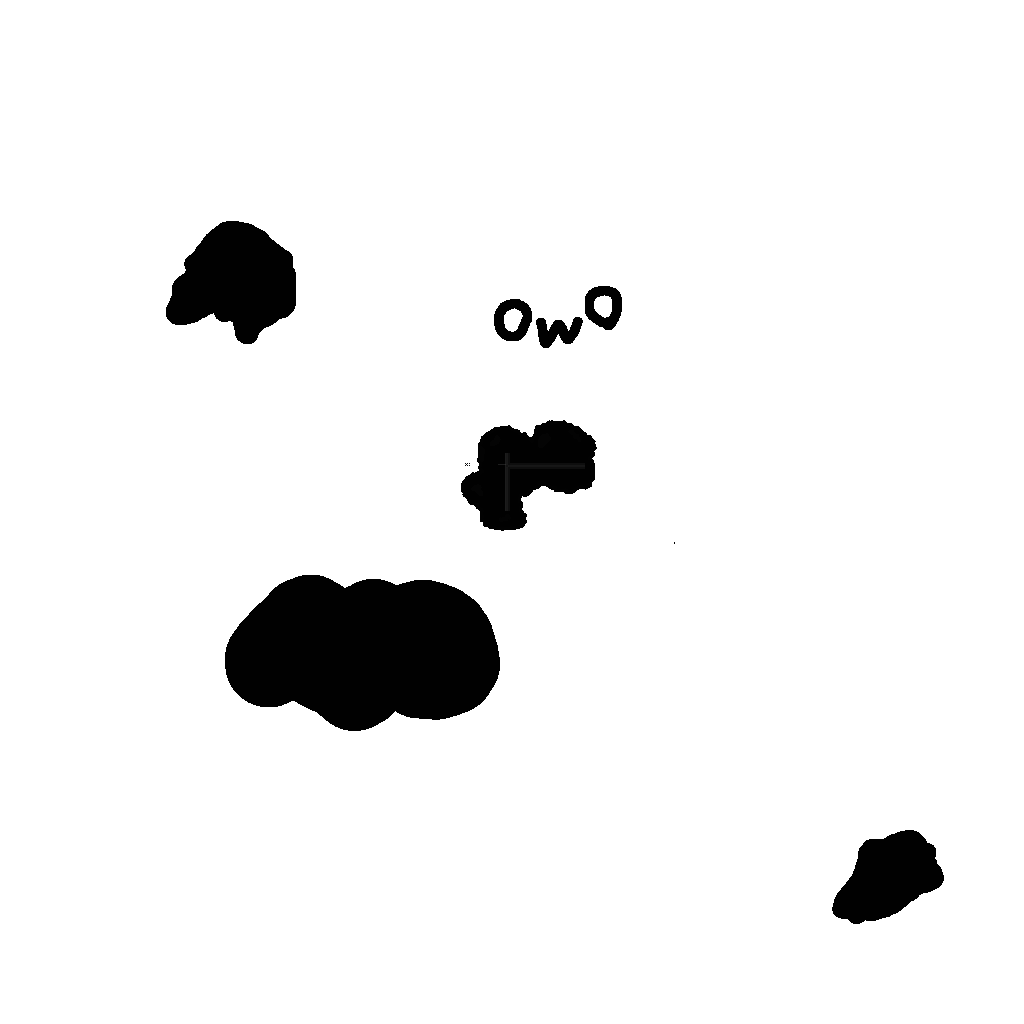
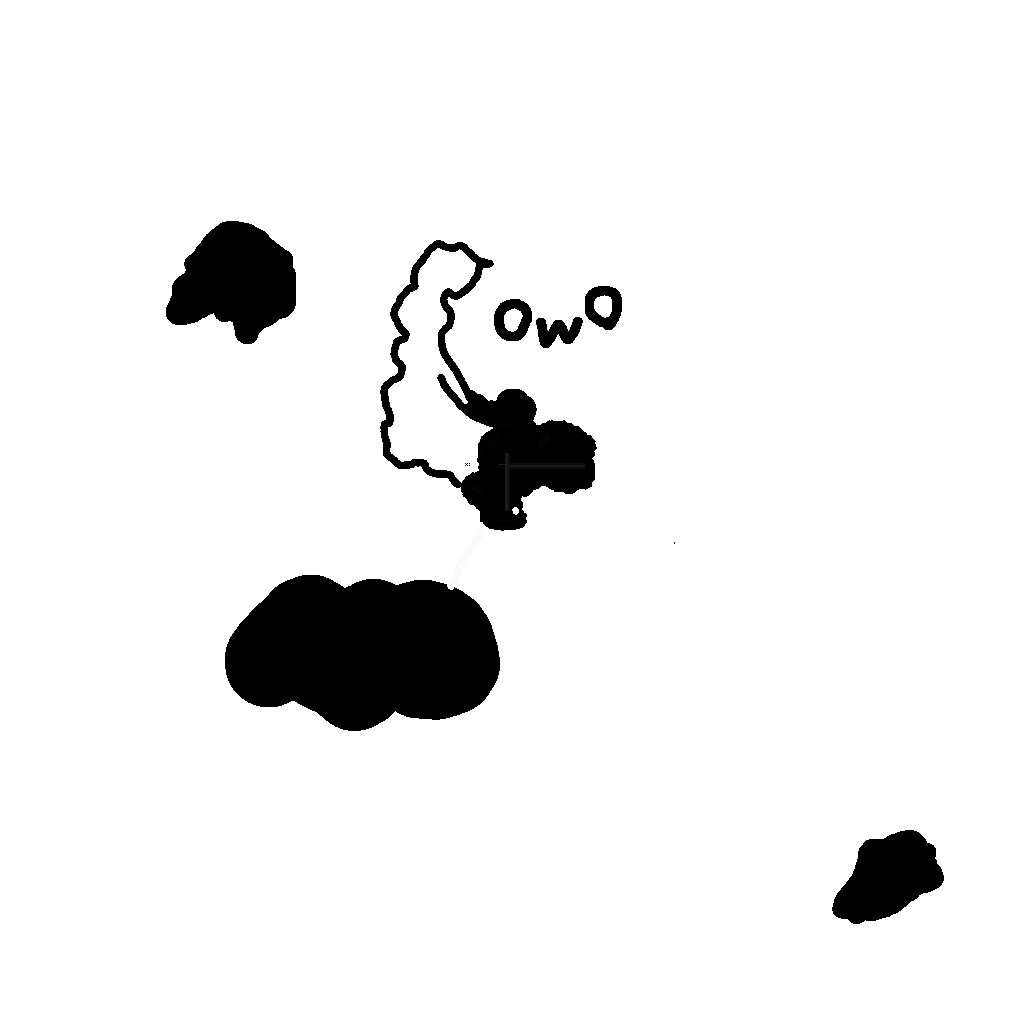
fixed some stuff, is implementing bridge to work properly

Changed region(s): [[0.375, 0.2188, 0.5312, 0.4688]]

diff --git a/src/game/scenes/world/_update.cpp b/src/game/scenes/world/_update.cpp
@@ -7,8 +7,19 @@ bool f3=false;
 	float sped=0.f;
 	bool statsflipflop=true;
 	void map::update(){
-		if (IsKeyPressed(KEY_F12)){
+		if (IsKeyPressed(KEY_F11)){
 			mustupdate=true;
+			UnloadShader(tilemat.shader);
+			tilemat.shader=LoadShader("res/shaders/tile.vs","res/shaders/tile.fs");
+			tilemaploc  = GetShaderLocation(tilemat.shader, "tilemap");
+			sheetloc= GetShaderLocation(tilemat.shader, "tilesheet");
+			MVPloc = GetShaderLocation(tilemat.shader, "mvp");
+			modelloc = GetShaderLocation(tilemat.shader, "modelmat");
+			sizeloc = GetShaderLocation(tilemat.shader, "size");
+			fragcolorloc = GetShaderLocation(tilemat.shader, "fragColor");
+			camloc = GetShaderLocation(tilemat.shader, "campos");
+			colsloc = GetShaderLocation(tilemat.shader, "cols");
+			fliploc = GetShaderLocation(tilemat.shader, "flip");
 		}if (mustupdate==true){
 			updatechunks();
 			mustupdate=false;
@@ -69,11 +80,18 @@ bool f3=false;
 		if (player.z>0)ptz--;
 		if (player.x<0)ptx--;
 		currenttile=tiles[(int)ptx+size*(int)ptz];
-		bool onwater=currenttile>=250||(currenttile>=245&&player.y>=1.0);
-		bool onground=(onwater
-	? player.y<=-0.8
-	: player.y<=1.01
+		bool onwater=currenttile>250;
+		bool onbridge=currenttile>245&&!onwater;
+		bool onground=(
+	onbridge?
+			player.y<1.0f
+			?player.y<=-0.8f
+			:player.y<=1.01f
+		:onwater
+		? player.y<=-0.8
+		: player.y<=1.01
 	);
+	
 		
 		bool sprinting=(IsKeyDown(KEY_LEFT_SHIFT)||IsKeyDown(KEY_RIGHT_SHIFT));
 		bool jumping=IsKeyDown(KEY_SPACE);
@@ -109,7 +127,7 @@ bool f3=false;
 		}
 		yaccel=(jumping
 		&&onground&&!onwater
-	)?.1:yaccel;		
+	)?.1:yaccel;
 		
 		if (headbob<-0.05f){
 			headdown=false;
@@ -134,7 +152,7 @@ bool f3=false;
 		if (currenttile!=targettile){
 			echo("currenttile %i targettile %i",currenttile,targettile);
 		}
-		if (currenttile>=250&&targettile<250&&player.y<1.){
+		if (currenttile>250&&targettile<250&&player.y<1.){
 			mx=0;my=0;
 			yaccel=0.01f;
 		}
@@ -214,25 +232,23 @@ bool f3=false;
 				daytime=daytime==5?daytime=0:daytime+1;
 			}
 		}
-		Vector3 target = {
-			player.x,
-			player.y + 1.6f, // aim a bit above feet, near head
-			player.z
-		};
 
-		float distance = 6.0f;   // how far behind
-		float height   = 2.0f;   // how high above
-		float offsetX  = cosf(player.yaw) * distance;
-		float offsetZ  = sinf(player.yaw) * distance;
+// Normalize
+float len = sqrtf(forward.x*forward.x + forward.y*forward.y + forward.z*forward.z);
+forward.x /= len;
+forward.y /= len;
+forward.z /= len;
 
-		third.position = {
-			target.x - offsetX,
-			target.y + height,
-			target.z - offsetZ
-		};
+// Desired distance behind player
+float distance = 6.0f;
 
-		third.target = target; // always look at player
-		third.up     = {0.0f, 1.0f, 0.0f};
+// Offset backwards along forward vector
+third.position.x = camera.position.x - forward.x * distance;
+third.position.y = camera.position.y - forward.y * distance + 1.0f; // add some height
+third.position.z = camera.position.z - forward.z * distance;
+
+// Keep looking where the original camera was looking
+third.target = camera.target;
 		if (IsKeyPressed(KEY_F5)){
 			thirdperson=!thirdperson;
 		}

diff --git a/src/game/scenes/entity.cpp b/src/game/scenes/entity.cpp
@@ -25,19 +25,27 @@ std::string defaultplayer = "res/defaultplayer/";
 	std::ifstream file(std::string(defaultplayer+"player.json").c_str());
 	frame=0;
 	if (file.is_open()) {
-		char filec[size];
+		char *filec = new char[size + 1];
+		filec[size] = '\0';
 		file.read(filec, sizeof(filec));
-		yyjson_doc *doc = yyjson_read(filec, strlen(filec), 0);
-		file.close();
-		yyjson_val *root = yyjson_doc_get_root(doc);
-		yyjson_val *namee = yyjson_obj_get(root, "name");
-		yyjson_val *descc = yyjson_obj_get(root, "description");
-		yyjson_val *single = yyjson_obj_get(root, "singlesprite");
-		
-		name=yyjson_get_str(namee);
-		desc=yyjson_get_str(descc);
-		singlesprite=yyjson_get_bool(single);
-		yyjson_doc_free(doc);
+		yyjson_doc *doc = yyjson_read(filec,size, 0);
+		if (doc) {
+			yyjson_val *root = yyjson_doc_get_root(doc);
+			yyjson_val *namee = yyjson_obj_get(root, "name");
+			yyjson_val *descc = yyjson_obj_get(root, "description");
+			yyjson_val *single = yyjson_obj_get(root, "singlesprite");
+			
+			// Check for NULL before assigning to std::string
+			const char *namestr = yyjson_get_str(namee);
+			const char *descstr = yyjson_get_str(descc);
+			
+			name = namestr ? namestr : "";
+			desc = descstr ? descstr : "";
+			singlesprite = yyjson_get_bool(single);
+			
+			yyjson_doc_free(doc);
+		}
+		delete[] filec;
 	}
 	
 }

diff --git a/src/game/scenes/world/world.cpp b/src/game/scenes/world/world.cpp
@@ -62,7 +62,6 @@ void map::init(){
 	cameras[1]=&third;
 	tilemapp=LoadTextureFromImage(tilemaptx);
 	tilemat=LoadMaterialDefault();
-	tilemat.shader=LoadShader("res/shaders/tile.vs","res/shaders/tile.fs");
 	toolbarshader=LoadShader("res/shaders/toolbar.vs","res/shaders/toolbar.fs");
 	playercursor=LoadTexture("res/images/playercursor.png");
 	debugfont=LoadFont("res/fonts/kipsynth.ttf");
@@ -73,6 +72,7 @@ void map::init(){
 	tilesheet = LoadTexture("res/images/tilesheet.png");
 	//SetTextureFilter(tilesheet, TEXTURE_FILTER_N);
 
+	tilemat.shader=LoadShader("res/shaders/tile.vs","res/shaders/tile.fs");
 	tilemaploc  = GetShaderLocation(tilemat.shader, "tilemap");
 	sheetloc= GetShaderLocation(tilemat.shader, "tilesheet");
 	MVPloc = GetShaderLocation(tilemat.shader, "mvp");

diff --git a/src/game/scenes/world/_render.cpp b/src/game/scenes/world/_render.cpp
@@ -73,8 +73,8 @@ void map::render(){
 	
 	DrawBillboardRec(camera,*player.fs[player.frame],
 		Rectangle{0,0,(float)1,2},
-		Vector3{(float)player.x,player.y,player.z},
-		Vector2{1.,1.},WHITE);
+		Vector3{(float)player.x,player.y+1,player.z},
+		Vector2{1.,2.},WHITE);
 	
 	EndMode3D();
 	//DrawTexture(tilesheet,0,180,WHITE);

diff --git a/src/main.cpp b/src/main.cpp
@@ -8,8 +8,8 @@ std::string NAME=		"forespend"				;
 std::string VERSION=	"0.03g"					;
 std::string PATH=		"../"					;
 
-//scene* current=&scene;
-scene* current=&menum;
+scene* current=&world;
+//scene* current=&menum;
 int main(int argc, char* argv[]) {
 	init();
 	while (!WindowShouldClose()) {

diff --git a/src/game/game.cpp b/src/game/game.cpp
@@ -11,8 +11,9 @@ short nextscene=0;
 Shader shd;
 RenderTexture2D rndr;
 void init() {
-	p=&pagem;
+	p=&page;
 	pagem=0;
+	page=-1;
 	startup(CSTR(NAME),CSTR(VERSION));
 	cfg.load();
 	SetConfigFlags(FLAG_WINDOW_RESIZABLE);
